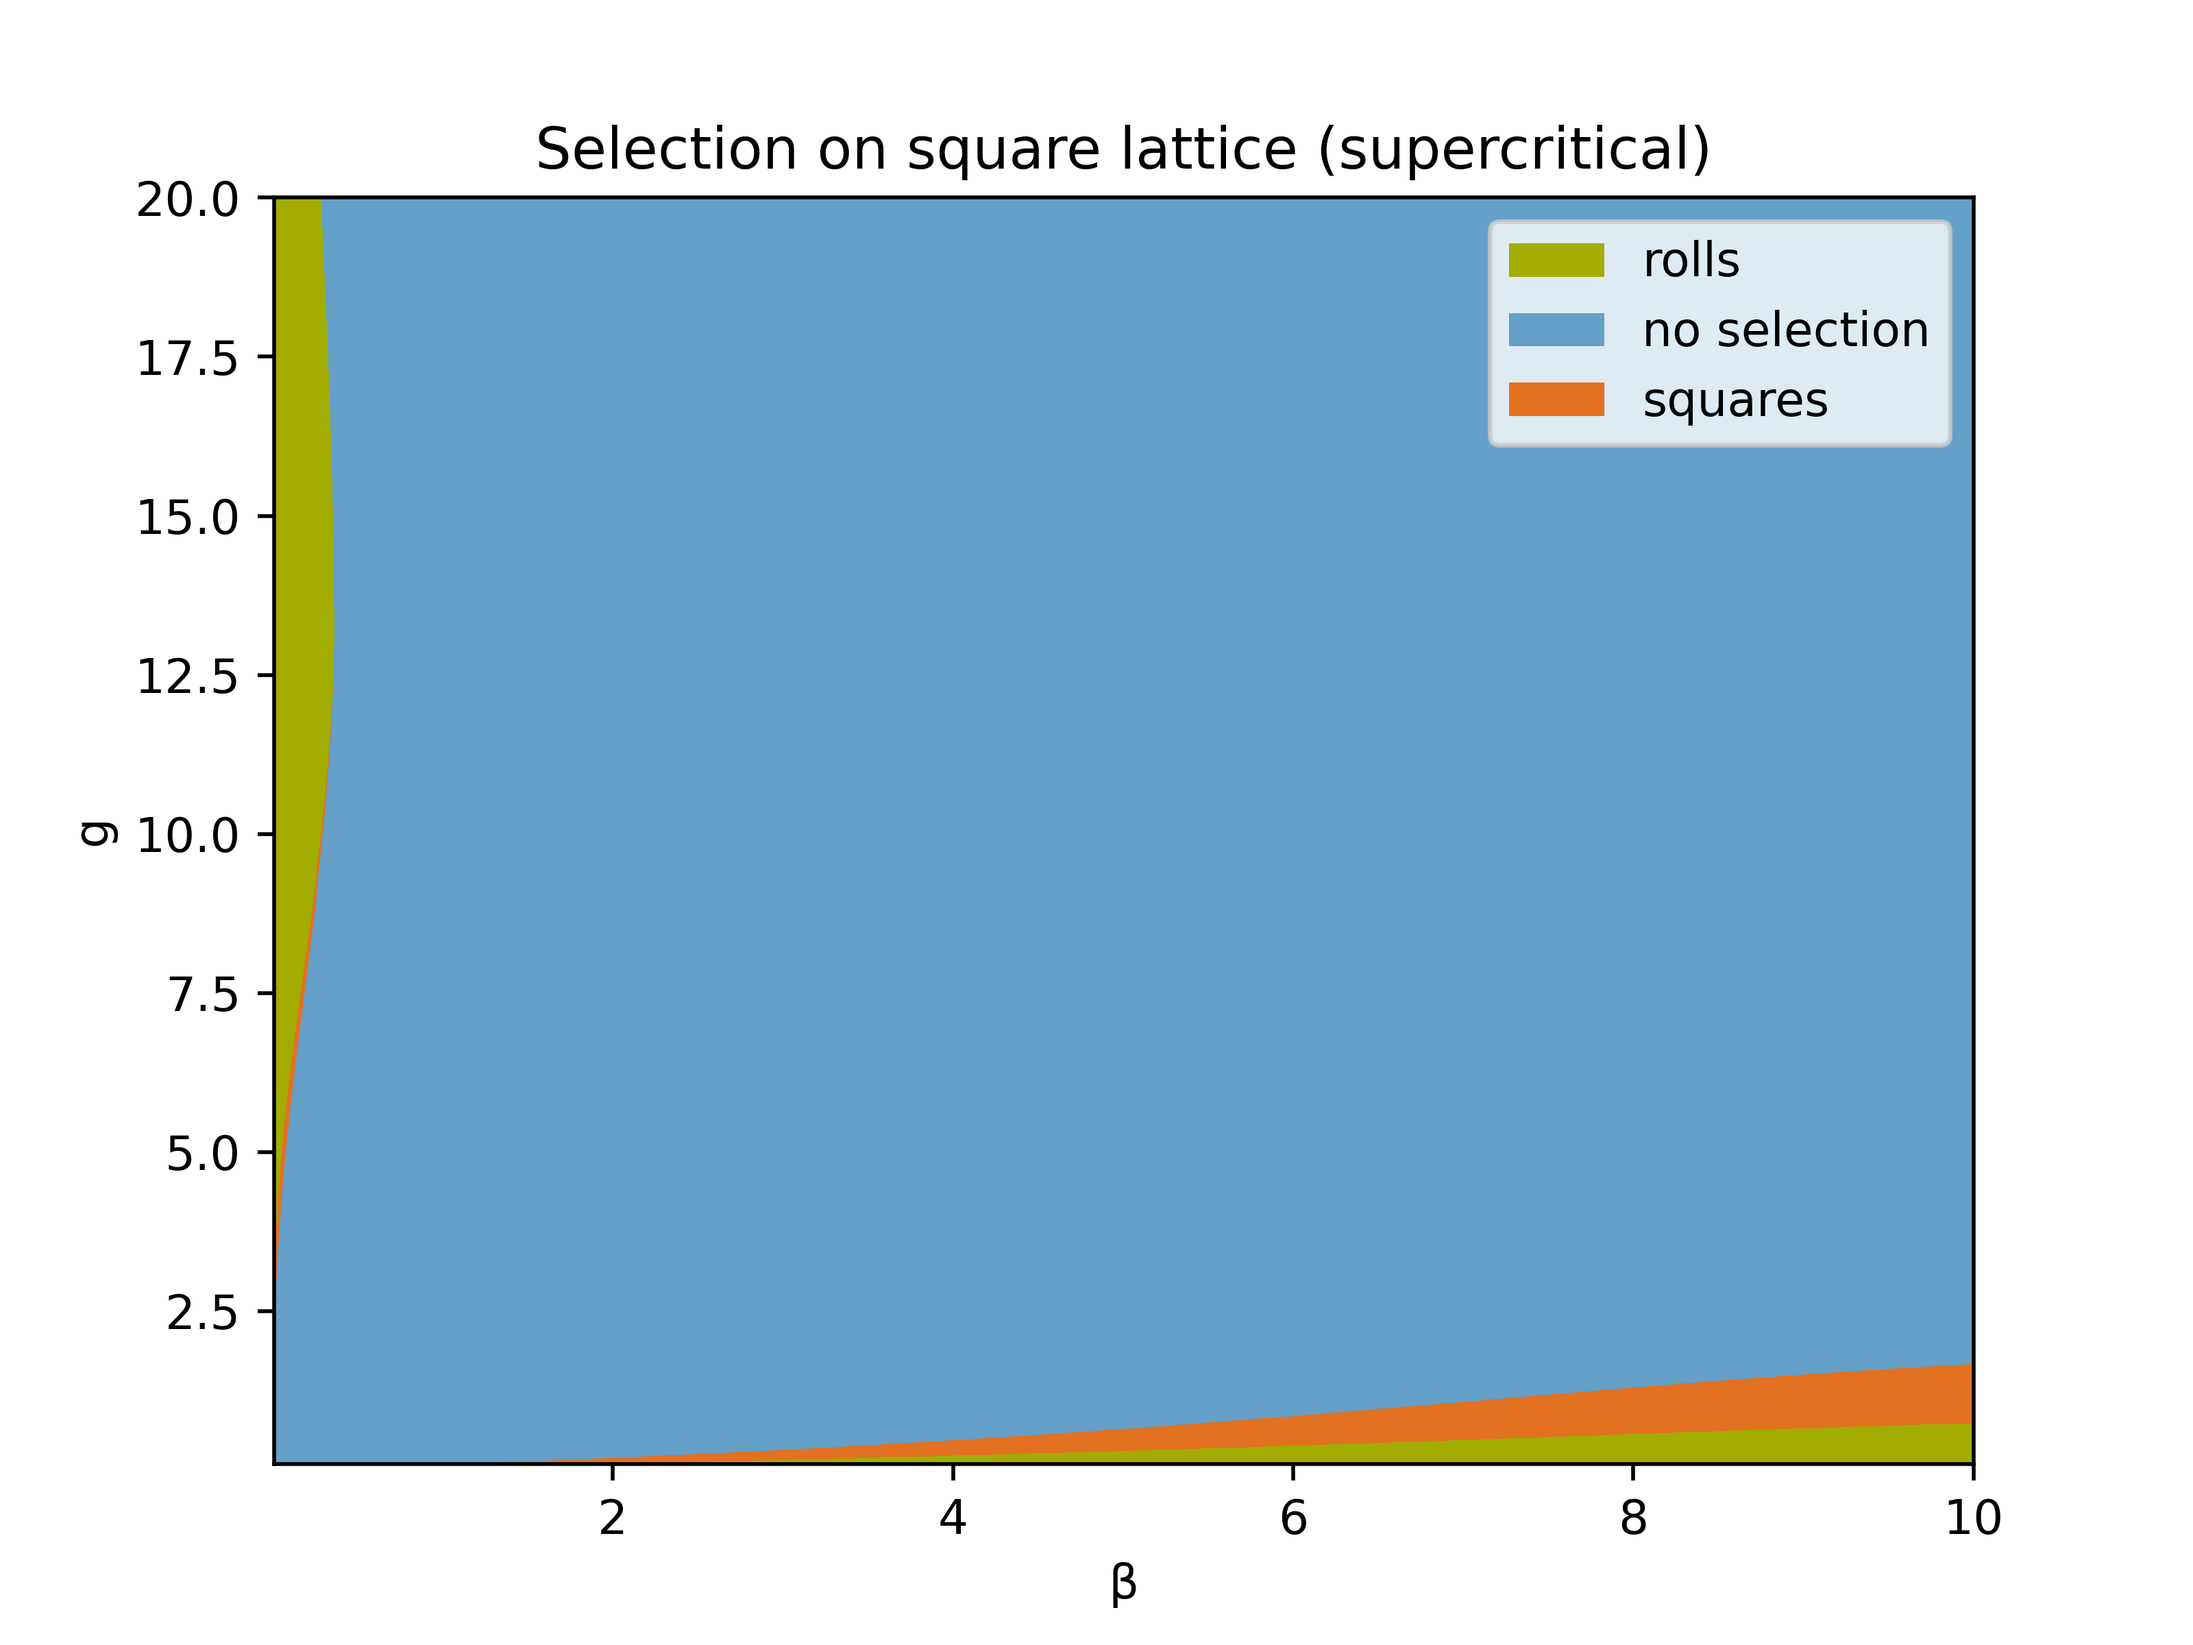
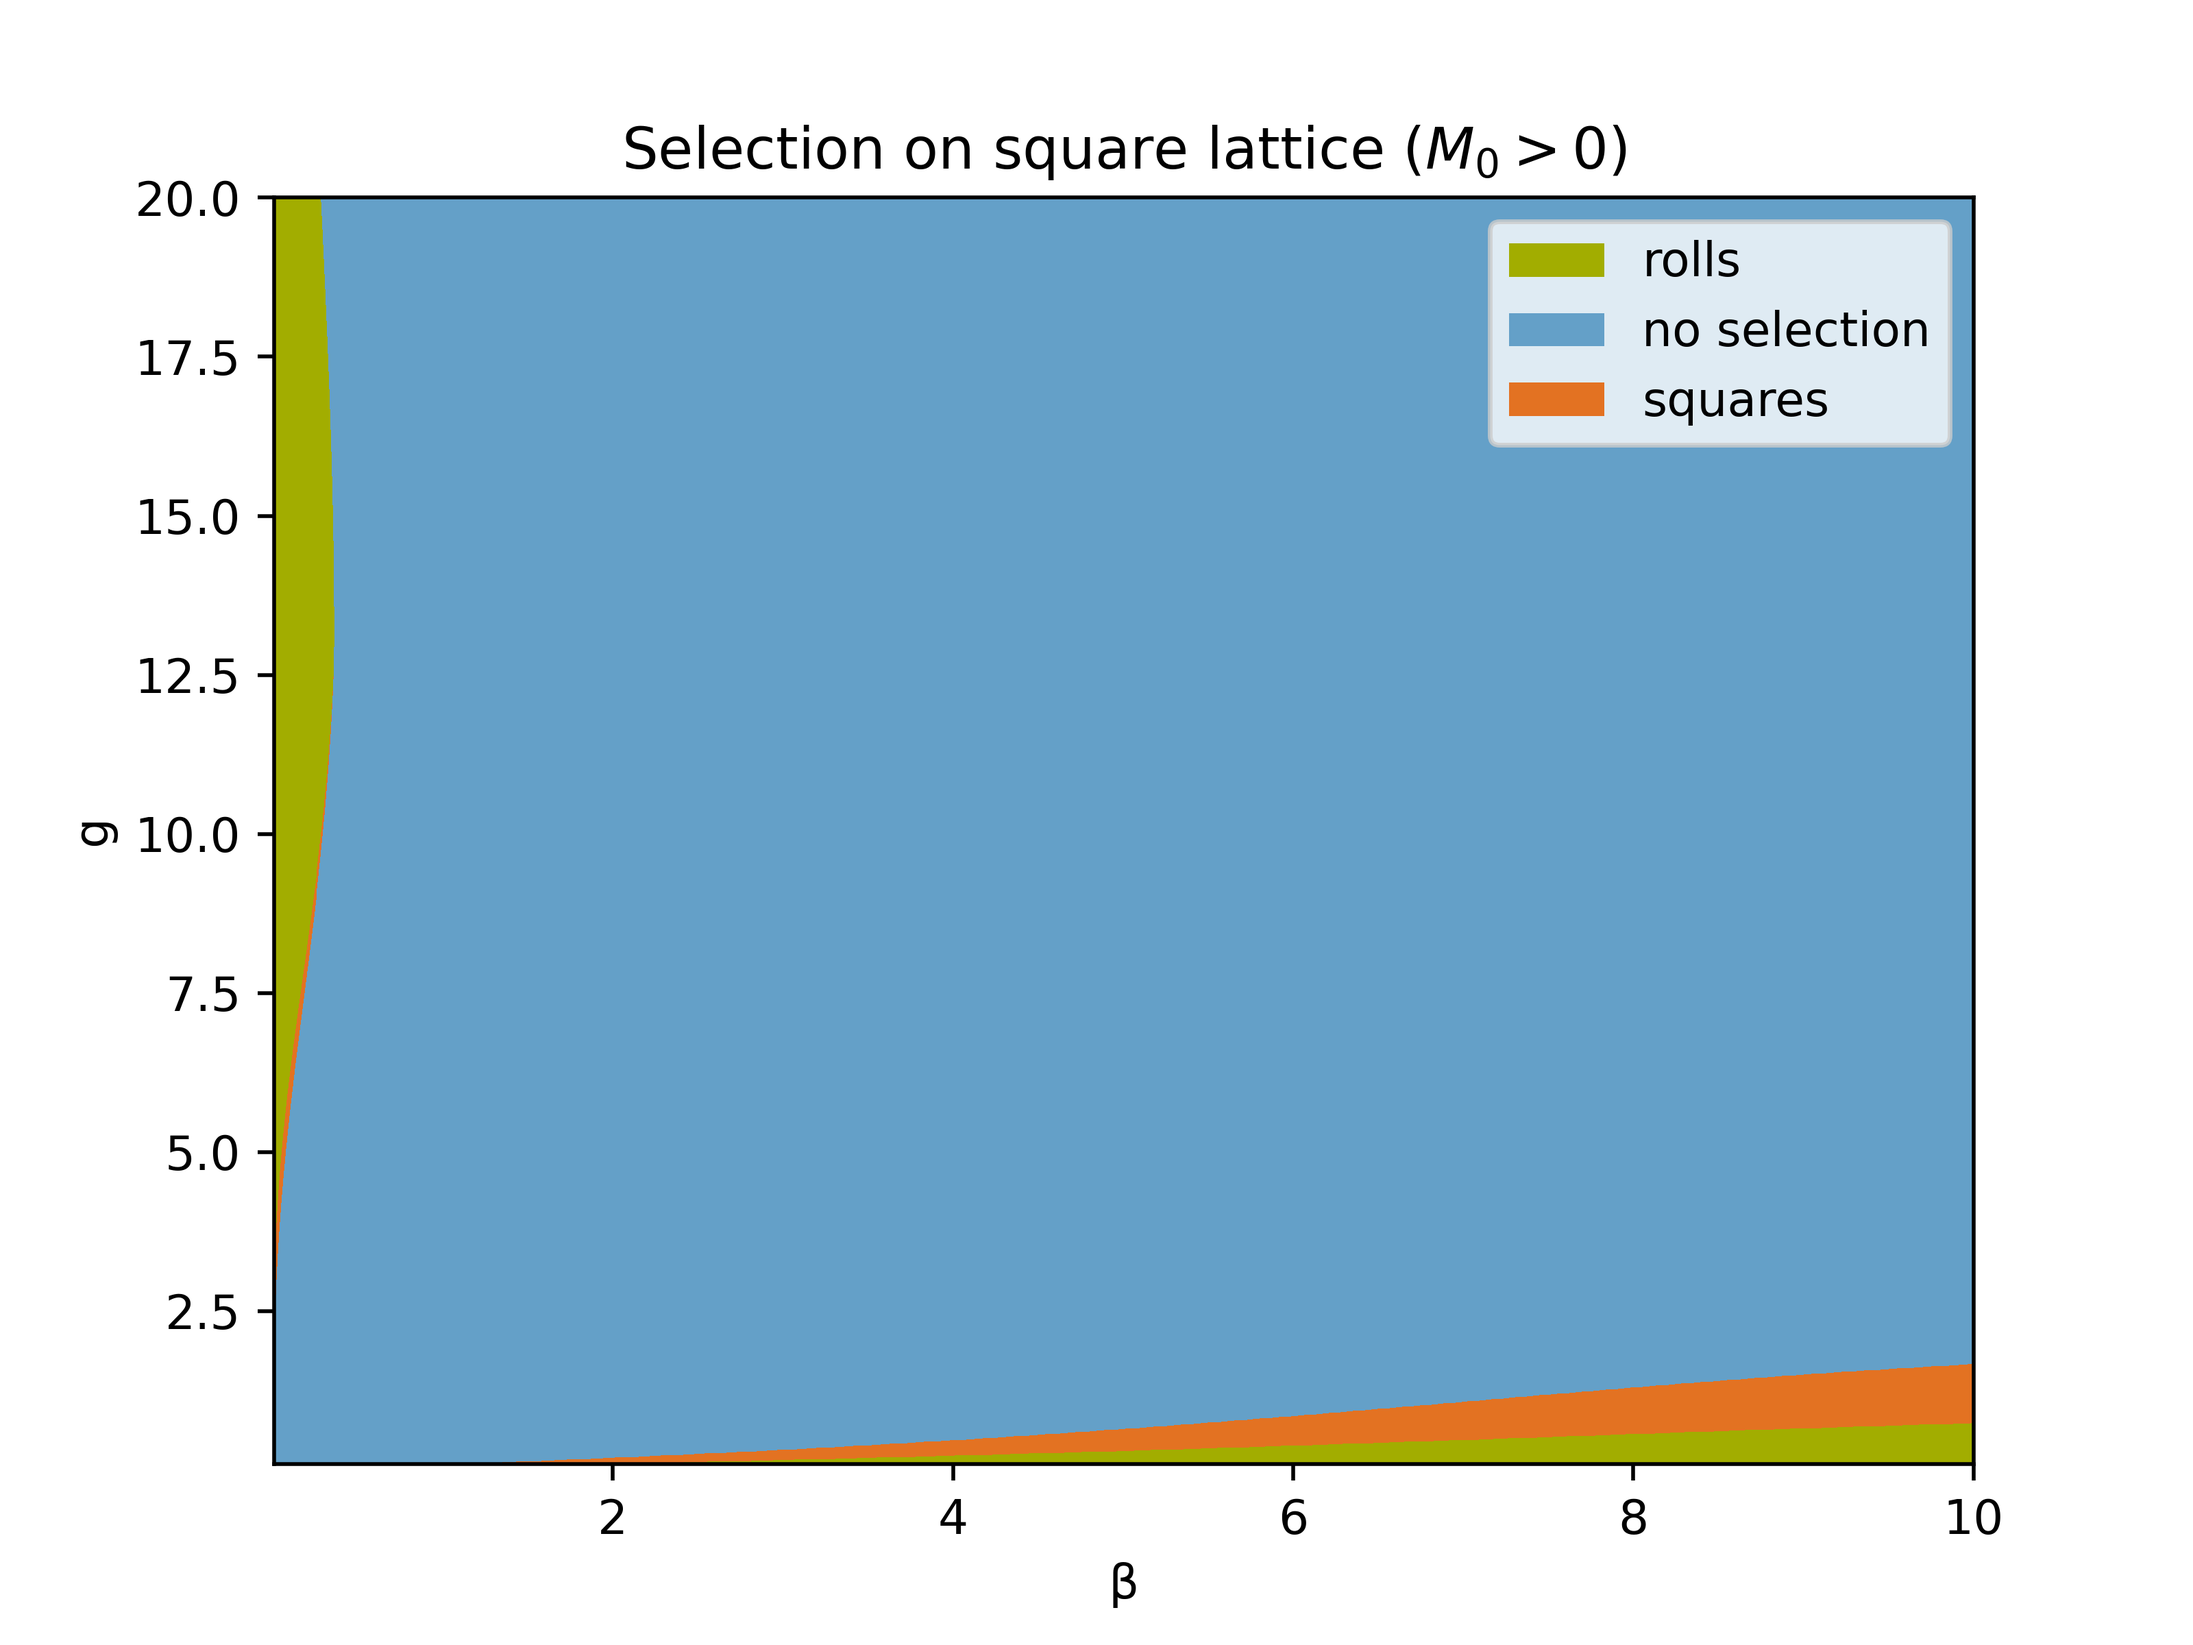
New figures without dashed line

Changed region(s): [[0.25, 0.0625, 0.7812, 0.125]]

diff --git a/Coefficients-Plots/CoefficientsRegimeSquare.py b/Coefficients-Plots/CoefficientsRegimeSquare.py
@@ -87,7 +87,7 @@ proxy = [plt.Rectangle((0, 0), 1, 1, fc=fc) for fc in [tumgreen,tumblue,tumorang
 plt.legend(proxy, ["rolls","no selection", "squares"])
 # plt.show()
 
-plt.title('Selection on square lattice (supercritical)')
+plt.title(r'Selection on square lattice ($M_0 > 0$)')
 plt.xlabel('β')
 plt.ylabel('g')
 plt.savefig("SelectionSquareLatticeSupercrit.png",dpi=500)
@@ -99,7 +99,7 @@ proxy = [plt.Rectangle((0, 0), 1, 1, fc=fc) for fc in [tumgreen,tumblue,tumorang
 plt.legend(proxy, ["rolls","no selection", "squares"])
 # plt.show()
 
-plt.title('Selection on square lattice (subcritical)')
+plt.title(r'Selection on square lattice ($M_0 < 0$)')
 plt.xlabel('β')
 plt.ylabel('g')
 plt.savefig("SelectionSquareLatticeSubcrit.png",dpi=500)
@@ -107,7 +107,8 @@ plt.savefig("SelectionSquareLatticeSubcrit.png",dpi=500)
 # coefficients: K0
 fig, ax = plt.subplots()
 densityK0 = ax.pcolormesh(X,Y,k0,cmap='jet')
-ax.contour(X,Y,k0,[0],colors='w',linestyles='dashed')
+# ax.contour(X,Y,k0,[0],colors='w',linestyles='dashed')
+ax.contour(X,Y,k0,[0],colors='w')
 fig.colorbar(densityK0)
 
 plt.title(r'$K_0$')
@@ -118,7 +119,8 @@ plt.savefig("DensityMapK0.png",dpi=500)
 # coefficients: K1
 fig, ax = plt.subplots()
 densityK1 = ax.pcolormesh(X,Y,k1,cmap='jet')
-ax.contour(X,Y,k1,[0],colors='w',linestyles='dashed')
+# ax.contour(X,Y,k1,[0],colors='w',linestyles='dashed')
+ax.contour(X,Y,k1,[0],colors='w')
 fig.colorbar(densityK1)
 
 plt.title(r'$K_1$')

diff --git a/Coefficients-Plots/CoefficientsRegimeSquare_largeDomain.py b/Coefficients-Plots/CoefficientsRegimeSquare_largeDomain.py
@@ -79,7 +79,8 @@ plt.savefig("ExistenceSquareLatticeLargeDomain.png",dpi=500)
 # coefficients: K0
 fig, ax = plt.subplots()
 densityK0 = ax.pcolormesh(X,Y,k0,cmap='jet')
-ax.contour(X,Y,k0,[0],colors='w',linestyles='dashed')
+# ax.contour(X,Y,k0,[0],colors='w',linestyles='dashed')
+ax.contour(X,Y,k0,[0],colors='w')
 fig.colorbar(densityK0)
 
 plt.title(r'$K_0$')
@@ -90,7 +91,8 @@ plt.savefig("DensityMapK0LargeDomain.png",dpi=500)
 # coefficients: K1
 fig, ax = plt.subplots()
 densityK1 = ax.pcolormesh(X,Y,k1,cmap='jet')
-ax.contour(X,Y,k1,[0],colors='w',linestyles='dashed')
+# ax.contour(X,Y,k1,[0],colors='w',linestyles='dashed')
+ax.contour(X,Y,k1,[0],colors='w')
 fig.colorbar(densityK1)
 
 plt.title(r'$K_1$')

diff --git a/Coefficients-Plots/CoefficientsRegimeHexagon.py b/Coefficients-Plots/CoefficientsRegimeHexagon.py
@@ -103,7 +103,8 @@ plt.savefig("DensityMapK0.png",dpi=500) """
 # coefficients: K2
 fig, ax = plt.subplots()
 densityK2 = ax.pcolormesh(X,Y,k2,cmap='jet')
-ax.contour(X,Y,k2,[0],colors='w',linestyles='dashed')
+# ax.contour(X,Y,k2,[0],colors='w',linestyles='dashed')
+ax.contour(X,Y,k2,[0],colors='w')
 fig.colorbar(densityK2)
 
 plt.title(r'$K_2$')

diff --git a/Coefficients-Plots/CoefficientsPlotHexagon.py b/Coefficients-Plots/CoefficientsPlotHexagon.py
@@ -66,7 +66,8 @@ for ii in range(len(betaGrid)):
 # coefficients: N
 fig, ax = plt.subplots()
 densityN = ax.pcolormesh(X,Y,n,cmap='jet')
-ax.contour(X,Y,n,[0],colors='w',linestyles='dashed')
+# ax.contour(X,Y,n,[0],colors='w',linestyles='dashed')
+ax.contour(X,Y,n,[0],colors='w')
 fig.colorbar(densityN)
 
 plt.title(r'$N$')
